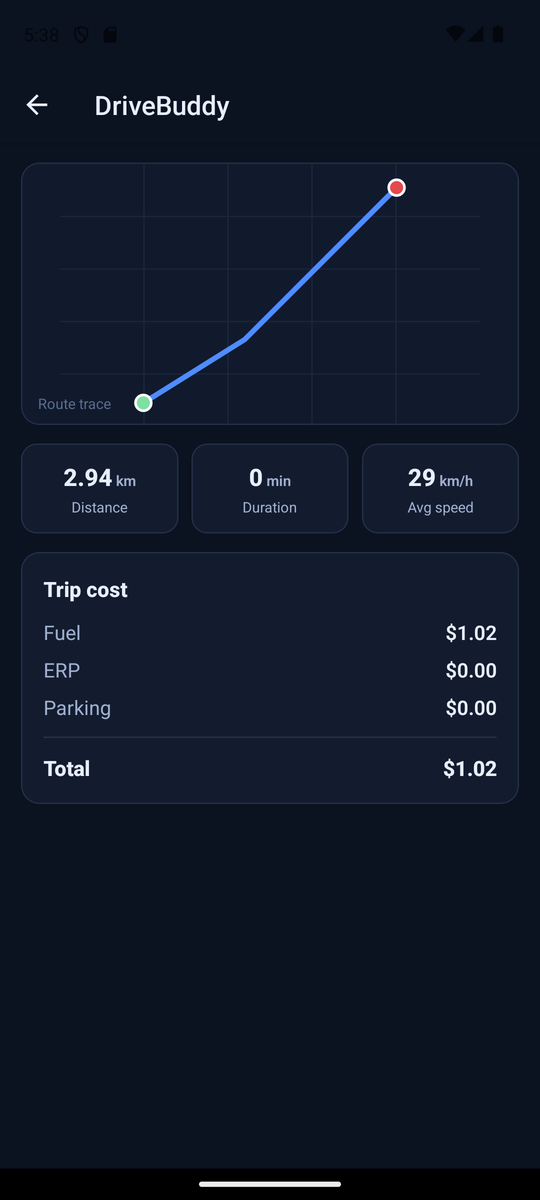
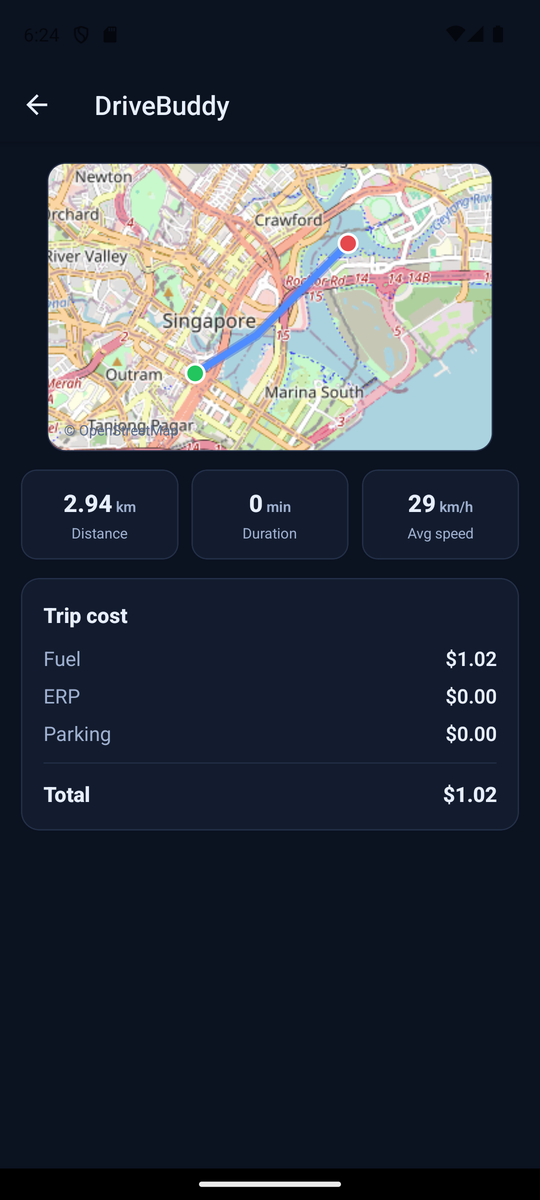
feat(trip): real OpenStreetMap map (keyless raster tiles) with route overlay
Renders OSM tiles as native <Image>s (Web Mercator tile math, auto-fit zoom) with
the GPS route drawn on top as an SVG overlay - a real street map with no Google
key, no WebView, and no native map module. Verified on device: shows the Singapore
streets with the route from start (green) to end (red). Recaptured trip screenshot.

Changed region(s): [[0.0593, 0.1233, 0.9185, 0.6783], [0.8, 0.5242, 0.9185, 0.6783]]

diff --git a/apps/drivebuddy/app/trip/[routeId].tsx b/apps/drivebuddy/app/trip/[routeId].tsx
@@ -1,8 +1,8 @@
 import { useEffect, useState } from "react";
-import { ActivityIndicator, ScrollView, StyleSheet, Text, View } from "react-native";
+import { ActivityIndicator, Image, ScrollView, StyleSheet, Text, View } from "react-native";
 import { SafeAreaView } from "react-native-safe-area-context";
 import { useLocalSearchParams } from "expo-router";
-import Svg, { Circle, Line, Polyline } from "react-native-svg";
+import Svg, { Circle, Polyline } from "react-native-svg";
 import { api, type RouteDetail, type TripSummary } from "@/lib/api";
 
 export default function TripScreen() {
@@ -64,13 +64,26 @@ export default function TripScreen() {
   );
 }
 
+// Web Mercator helpers (256px tiles).
+const TILE = 256;
+const worldX = (lng: number, z: number) => ((lng + 180) / 360) * TILE * 2 ** z;
+const worldY = (lat: number, z: number) => {
+  const s = Math.sin((lat * Math.PI) / 180);
+  return (0.5 - Math.log((1 + s) / (1 - s)) / (4 * Math.PI)) * TILE * 2 ** z;
+};
+
+/**
+ * A real OpenStreetMap map built from raster tiles rendered as native <Image>s
+ * (no Google key, no WebView, no native map module), with the GPS route drawn
+ * over it as an SVG overlay. Picks the zoom that fits the route, lays out the
+ * covering tiles, and projects the points into the same pixel space.
+ */
 function RouteMap({ points }: { points: { latitude: number; longitude: number }[] }) {
-  const W = 320;
-  const H = 200;
-  const pad = 18;
+  const W = 340;
+  const H = 220;
   if (points.length < 2) {
     return (
-      <View style={[styles.map, { height: H, justifyContent: "center", alignItems: "center" }]}>
+      <View style={[styles.map, { width: W, height: H, justifyContent: "center", alignItems: "center" }]}>
         <Text style={styles.muted}>Not enough GPS points to draw the route.</Text>
       </View>
     );
@@ -81,36 +94,58 @@ function RouteMap({ points }: { points: { latitude: number; longitude: number }[
   const maxLat = Math.max(...lats);
   const minLng = Math.min(...lngs);
   const maxLng = Math.max(...lngs);
-  const spanLat = maxLat - minLat || 1e-6;
-  const spanLng = maxLng - minLng || 1e-6;
-  const scale = Math.min((W - pad * 2) / spanLng, (H - pad * 2) / spanLat);
-  const offX = (W - spanLng * scale) / 2;
-  const offY = (H - spanLat * scale) / 2;
-  const project = (p: { latitude: number; longitude: number }) => ({
-    x: offX + (p.longitude - minLng) * scale,
-    y: H - offY - (p.latitude - minLat) * scale, // invert y (north up)
-  });
-  const pts = points.map(project);
-  const polyline = pts.map((p) => `${p.x},${p.y}`).join(" ");
-  const start = pts[0]!;
-  const end = pts[pts.length - 1]!;
-  const grid = [0.2, 0.4, 0.6, 0.8];
+
+  // Largest zoom where the route bbox fits inside the viewport (with padding).
+  let z = 17;
+  for (; z > 2; z--) {
+    const dx = worldX(maxLng, z) - worldX(minLng, z);
+    const dy = worldY(minLat, z) - worldY(maxLat, z);
+    if (dx <= W - 60 && dy <= H - 60) break;
+  }
+  const max = 2 ** z;
+  const cx = (worldX(minLng, z) + worldX(maxLng, z)) / 2;
+  const cy = (worldY(minLat, z) + worldY(maxLat, z)) / 2;
+  const originX = cx - W / 2;
+  const originY = cy - H / 2;
+
+  const tiles: { key: string; left: number; top: number; uri: string }[] = [];
+  const tx0 = Math.floor(originX / TILE);
+  const tx1 = Math.floor((originX + W) / TILE);
+  const ty0 = Math.floor(originY / TILE);
+  const ty1 = Math.floor((originY + H) / TILE);
+  for (let tx = tx0; tx <= tx1; tx++) {
+    for (let ty = ty0; ty <= ty1; ty++) {
+      if (tx < 0 || ty < 0 || tx >= max || ty >= max) continue;
+      tiles.push({
+        key: `${tx}-${ty}`,
+        left: tx * TILE - originX,
+        top: ty * TILE - originY,
+        uri: `https://tile.openstreetmap.org/${z}/${tx}/${ty}.png`,
+      });
+    }
+  }
+
+  const screen = points.map((p) => ({ x: worldX(p.longitude, z) - originX, y: worldY(p.latitude, z) - originY }));
+  const polyline = screen.map((p) => `${p.x.toFixed(1)},${p.y.toFixed(1)}`).join(" ");
+  const start = screen[0]!;
+  const end = screen[screen.length - 1]!;
 
   return (
-    <View style={[styles.map, { height: H }]}>
-      <Svg width={W} height={H}>
-        {/* faint grid so the route reads as a mapped trace, not an empty box */}
-        {grid.map((g) => (
-          <Line key={`v${g}`} x1={W * g} y1={0} x2={W * g} y2={H} stroke="#1b2740" strokeWidth={1} />
-        ))}
-        {grid.map((g) => (
-          <Line key={`h${g}`} x1={0} y1={H * g} x2={W} y2={H * g} stroke="#1b2740" strokeWidth={1} />
-        ))}
-        <Polyline points={polyline} fill="none" stroke="#4f8cff" strokeWidth={4} strokeLinejoin="round" strokeLinecap="round" />
-        <Circle cx={start.x} cy={start.y} r={6} fill="#7ee0a2" stroke="#fff" strokeWidth={2} />
-        <Circle cx={end.x} cy={end.y} r={6} fill="#e5484d" stroke="#fff" strokeWidth={2} />
+    <View style={[styles.map, { width: W, height: H }]}>
+      {tiles.map((t) => (
+        <Image
+          key={t.key}
+          source={{ uri: t.uri, headers: { "User-Agent": "DriveBuddy/1.0 (https://github.com/elleskay/drivebuddy)" } }}
+          style={{ position: "absolute", left: t.left, top: t.top, width: TILE, height: TILE }}
+        />
+      ))}
+      <Svg width={W} height={H} style={StyleSheet.absoluteFill}>
+        <Polyline points={polyline} fill="none" stroke="#1d4ed8" strokeOpacity={0.35} strokeWidth={8} strokeLinejoin="round" strokeLinecap="round" />
+        <Polyline points={polyline} fill="none" stroke="#4f8cff" strokeWidth={5} strokeLinejoin="round" strokeLinecap="round" />
+        <Circle cx={start.x} cy={start.y} r={7} fill="#22c55e" stroke="#fff" strokeWidth={2} />
+        <Circle cx={end.x} cy={end.y} r={7} fill="#e5484d" stroke="#fff" strokeWidth={2} />
       </Svg>
-      <Text style={styles.mapTag}>Route trace</Text>
+      <Text style={styles.mapTag}>© OpenStreetMap</Text>
     </View>
   );
 }
@@ -145,7 +180,7 @@ const styles = StyleSheet.create({
     borderWidth: 1,
     borderRadius: 14,
     overflow: "hidden",
-    alignItems: "center",
+    alignSelf: "center",
   },
   muted: { color: "#5a6b8c", fontSize: 13 },
   mapTag: { position: "absolute", bottom: 8, left: 12, color: "#5a6b8c", fontSize: 11 },

diff --git a/README.md b/README.md
@@ -55,7 +55,7 @@ Expo (React Native), NestJS, Prisma, Neon Postgres, AWS Lambda + API Gateway + S
 | Feature | What it does |
 |---|---|
 | **Journey Mode** | Records your drive with foreground GPS (`expo-location`), batches points to the API, and computes live distance, average and max speed. |
-| **Post-trip summary** | On stop, generates a trip summary with the mapped route (SVG polyline) and an itemised cost breakdown: fuel (from your main vehicle's consumption over the distance), ERP, and parking. |
+| **Post-trip summary** | On stop, generates a trip summary with the driven route drawn on an OpenStreetMap map (keyless raster tiles, no Google dependency) and an itemised cost breakdown: fuel (from your main vehicle's consumption over the distance), ERP, and parking. |
 | **Live Info dashboard** | Singapore data in one place: 2-hour weather (data.gov.sg), petrol prices, and live traffic, ERP and carpark availability (LTA DataMall). Pull to refresh, cached. |
 | **AI Assistant** | A voice and text assistant for Singapore driving questions: Amazon Bedrock (Claude) for answers, Polly for spoken replies, Transcribe for voice input. |
 | **Notifications and push** | In-app notification center plus Expo push. Four types (pre-drive, real-time, post-trip, system) and five alert channels (speed, hazard, ERP, traffic, weather), each individually toggleable. |
@@ -167,7 +167,7 @@ All planned phases (A to H) are built and verified live. A few items depend on e
 - [ ] **Bedrock quota**: AI answers need a model-invocation quota increase (AWS Service Quotas, Bedrock, `ap-southeast-1`).
 - [ ] **LTA DataMall key**: set the `LTA_ACCOUNT_KEY` secret to enable live traffic, ERP and carpark (env already wired).
 - [ ] **EAS / store builds**: run `eas init` and set the `EXPO_TOKEN` secret to produce installable builds and enable on-device push.
-- [ ] **Native enhancements**: `react-native-maps` live map, background-GPS service, and on-device wake-word (require a dev build).
+- [ ] **Native enhancements**: an interactive pan/zoom map (the trip map currently renders OpenStreetMap raster tiles with the route overlaid), background-GPS service, and on-device wake-word (require a dev build).
 
 ---
 
